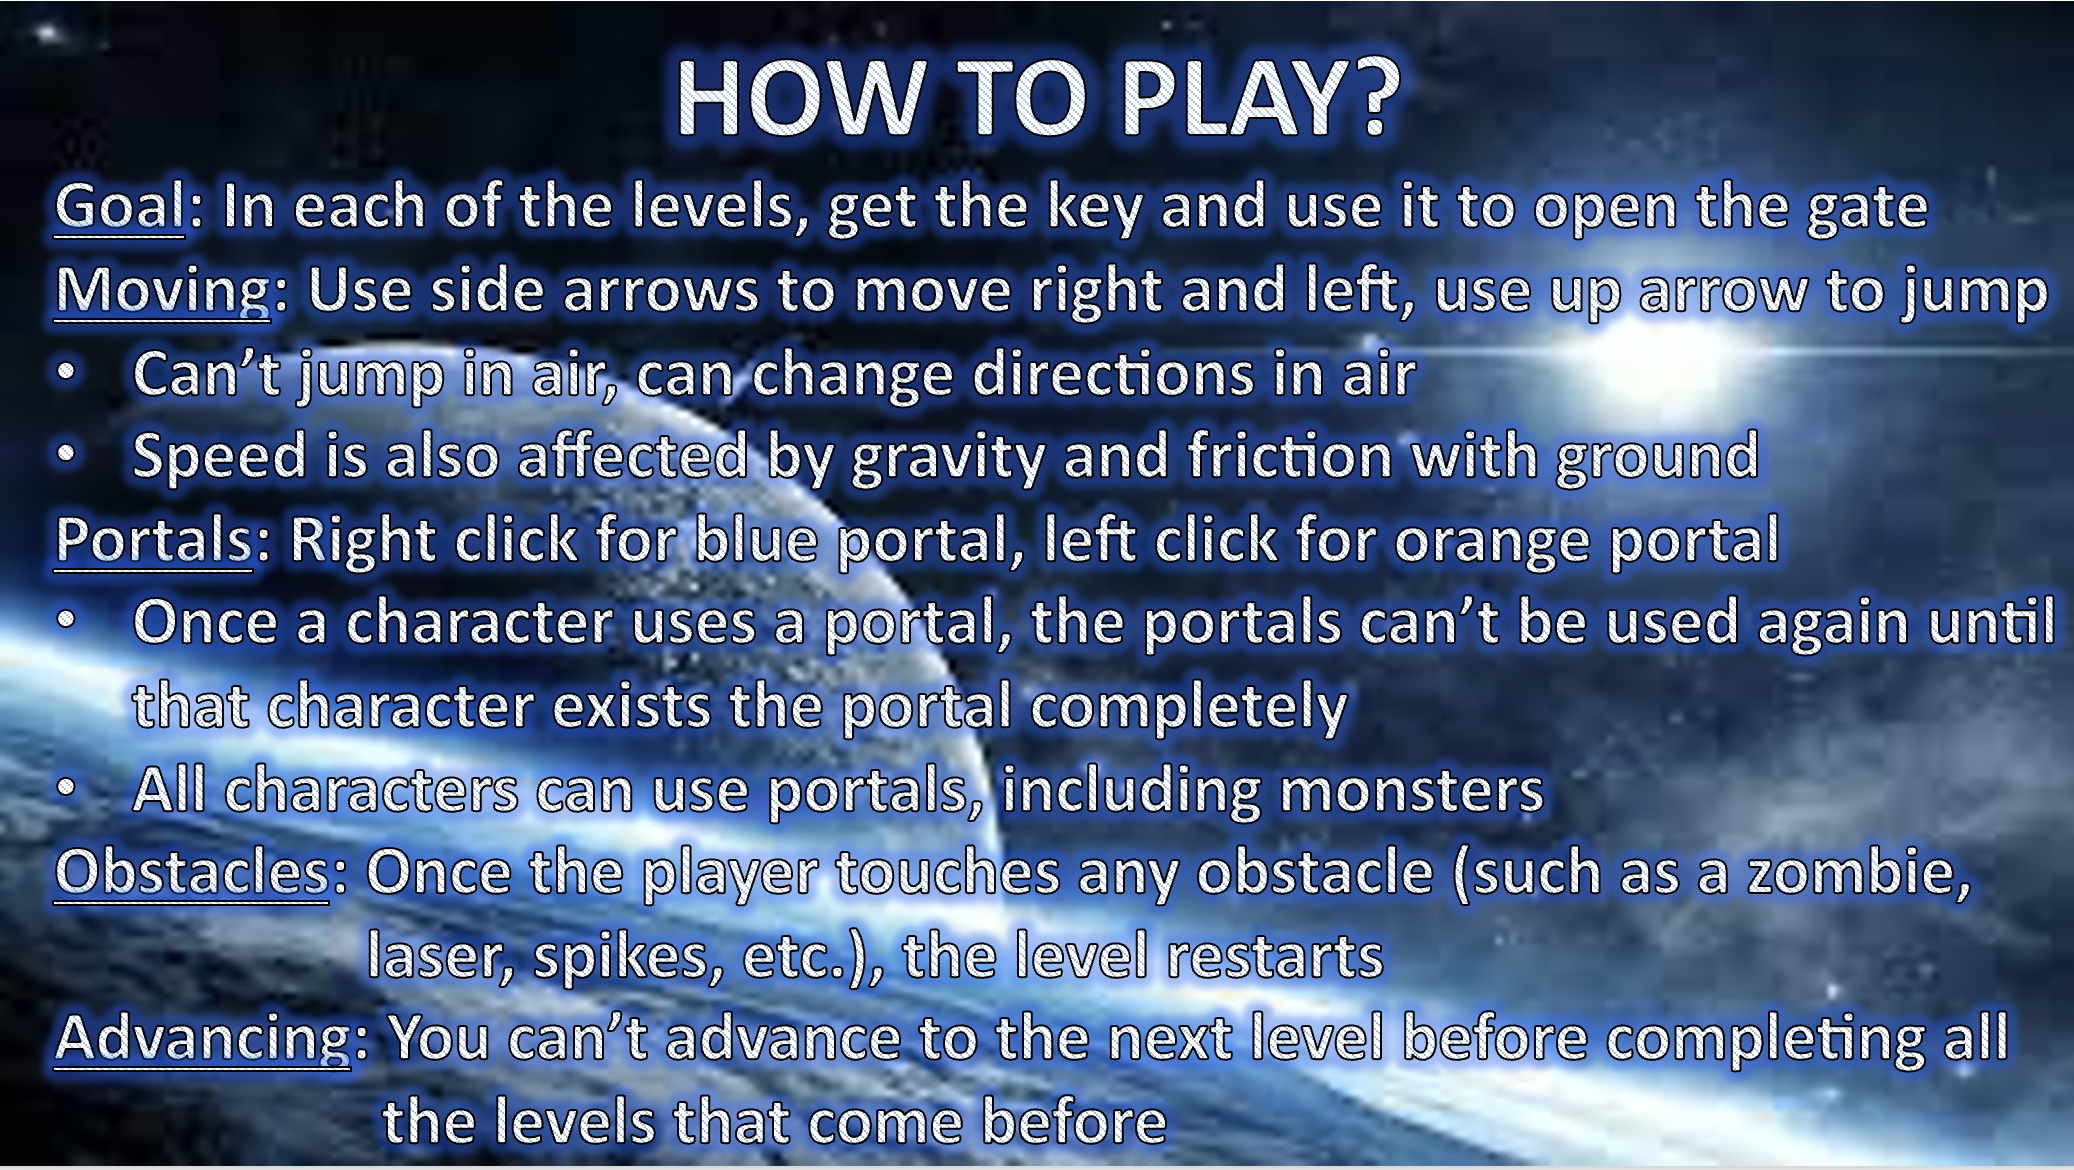
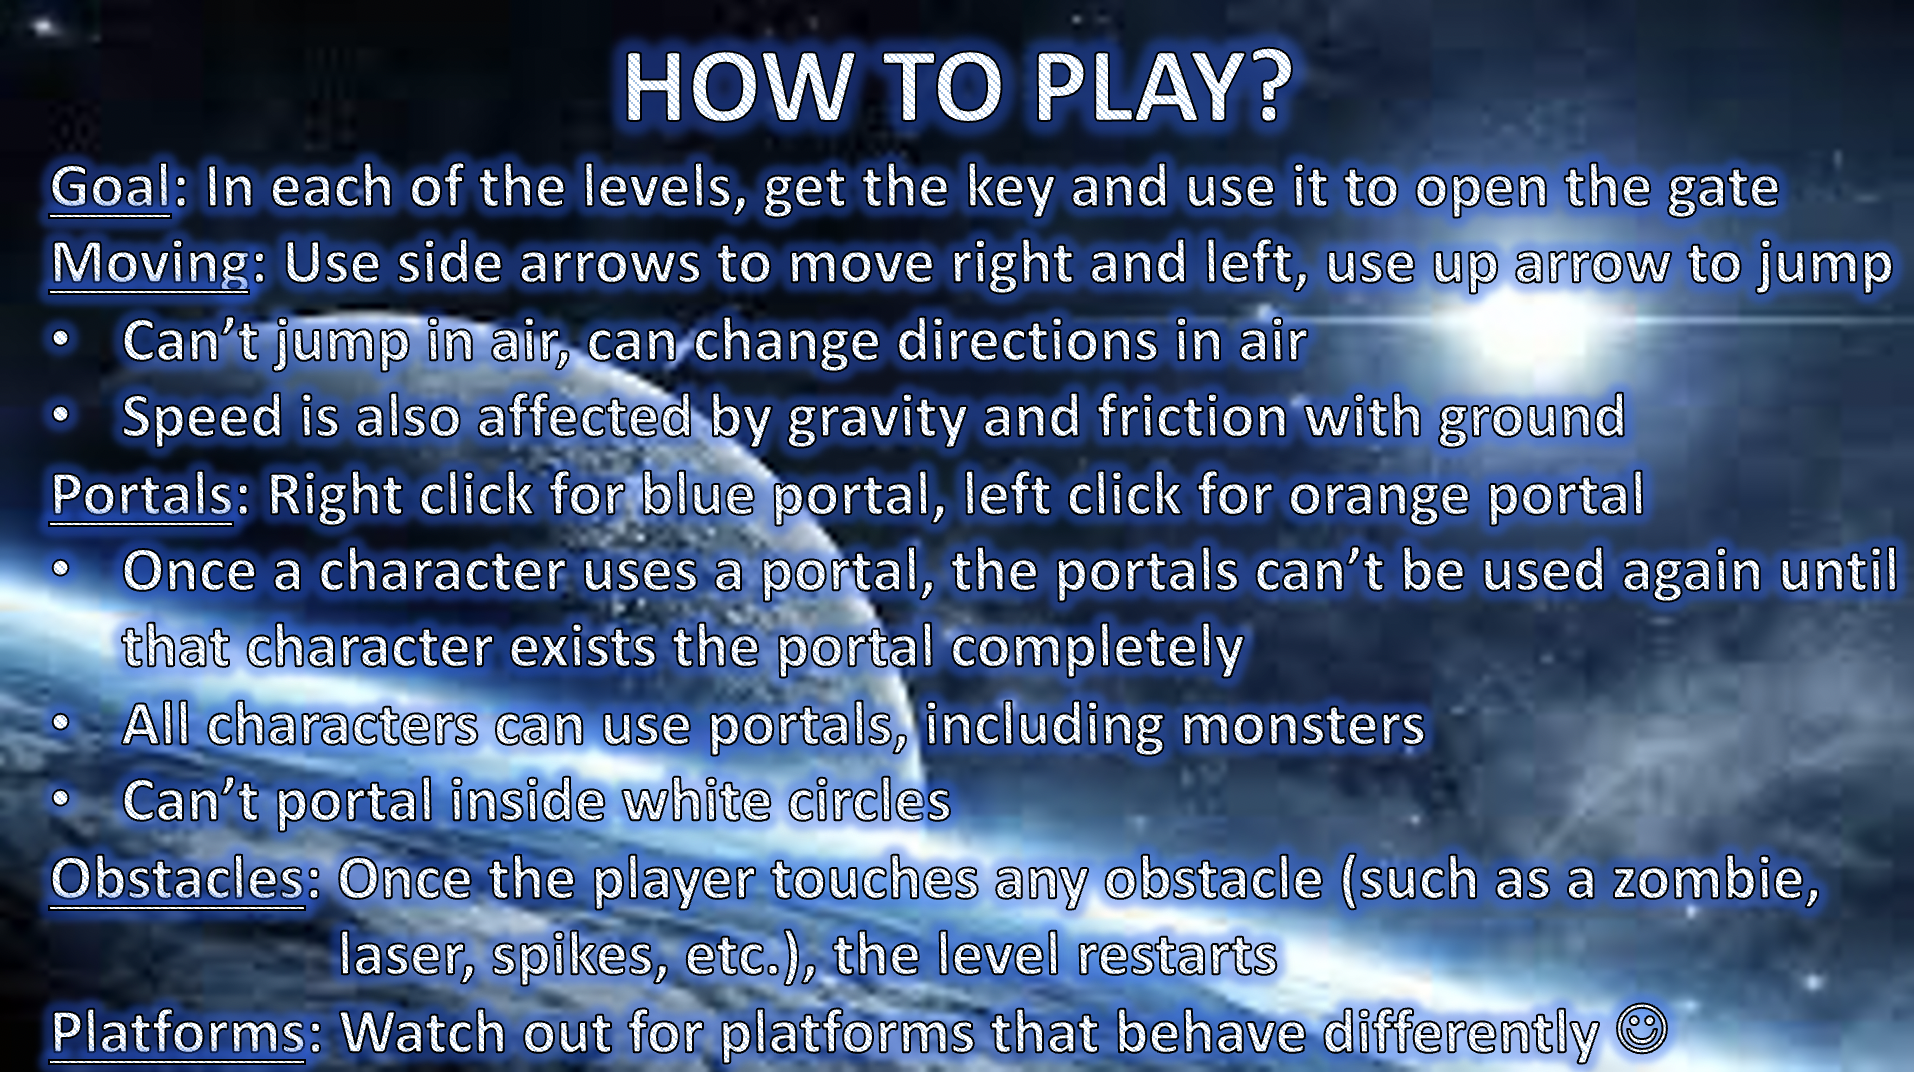
Made level 7 a bit more complicated

diff --git a/CapstoneProject/src/screens/Menu.java b/CapstoneProject/src/screens/Menu.java
@@ -74,14 +74,6 @@ public class Menu extends Screen {
 		Point p = surface.actualCoordinatesToAssumed(new Point(surface.mouseX,surface.mouseY));
 		if (levelButtons[0].contains(p))
 			surface.switchScreen(ScreenSwitcher.LEVEL1);
-		if (Level.isCompleted(0)) {
-			if (levelButtons[1].contains(p))
-				surface.switchScreen(ScreenSwitcher.LEVEL2);
-			if (Level.isCompleted(1)) {
-				if (levelButtons[2].contains(p))
-					surface.switchScreen(ScreenSwitcher.LEVEL3);
-			}
-		}
 		if (levelButtons[1].contains(p))
 			surface.switchScreen(ScreenSwitcher.LEVEL2);
 		if (levelButtons[2].contains(p))
@@ -90,7 +82,6 @@ public class Menu extends Screen {
 			surface.switchScreen(ScreenSwitcher.LEVEL4);
 		if(levelButtons[4].contains(p))
 			surface.switchScreen(ScreenSwitcher.LEVEL5);
-
 		if(levelButtons[5].contains(p))
 			surface.switchScreen(ScreenSwitcher.LEVEL6);
 		if(levelButtons[6].contains(p))

diff --git a/CapstoneProject/src/screens/Level.java b/CapstoneProject/src/screens/Level.java
@@ -242,7 +242,9 @@ public class Level extends Screen {
 	
 		else if(level == 7) {
 			platforms.add(new Platform(platform, startX, startY, 50, 30));
-			platforms.add(new BoostPlatform(rightBoostPlatform, 310, 300, 200, 30, true));
+			platforms.add(new BoostPlatform(rightBoostPlatform, 150, 300, 150, 30, true));
+			platforms.add(new ForceBarrier(clouds, 300, 10, 50, 400));
+			platforms.add(new BoostPlatform(leftBoostPlatform, 300, 300, 200, 30, false));
 			platforms.add(new Platform(platform, 650, 300, 100, 30));
 		 }
 
